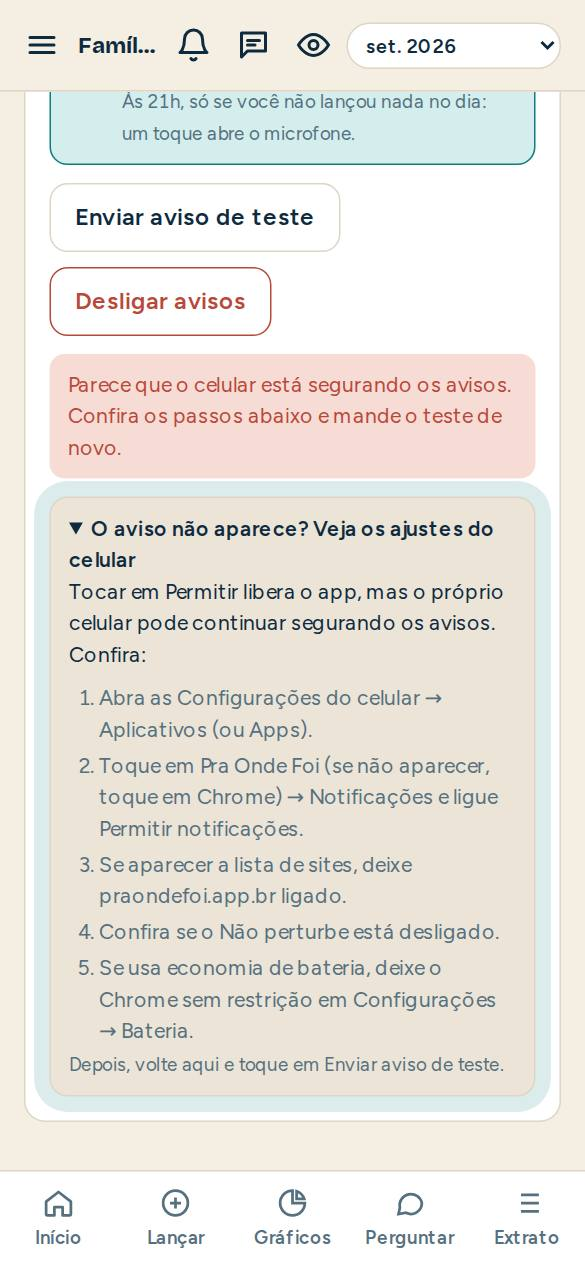
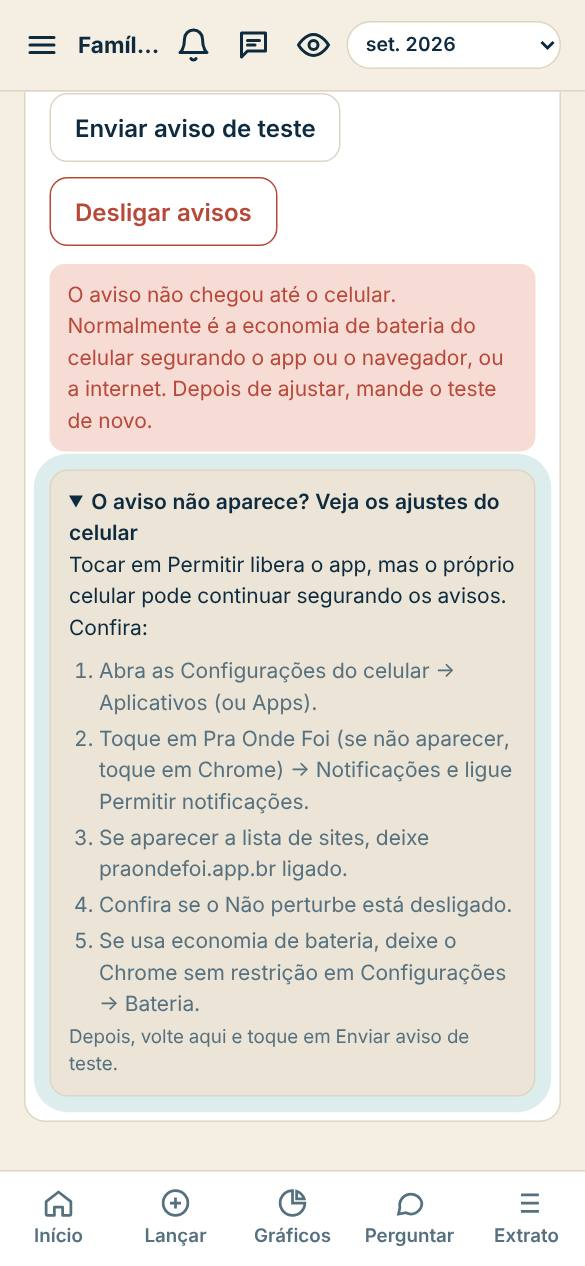
v69: the notification test knows whether the notice reached the phone and explains each case
Claude-Session: https://claude.ai/code/session_01HTxyDPPEQrF1SknoQ9axHM

diff --git a/public/js/admin/content.js b/public/js/admin/content.js
@@ -9,7 +9,7 @@ export const FEATURE_LABELS = {
   'perguntar.enviar': 'Pergunta ao assistente', 'fechar.mes': 'Fechou um mês', 'graficos.salvar': 'Salvou gráfico', privacidade: 'Modo privacidade',
   'opiniao.erro': 'Mandou erro', 'opiniao.ideia': 'Mandou ideia', 'opiniao.critica': 'Mandou crítica', 'duvida.ler': 'Leu uma dúvida', 'duvida.perguntar': 'Perguntou nas Dúvidas',
   'menu.familia': 'Menu: Família', 'menu.divisao': 'Menu: Quem paga o quê', 'menu.metas': 'Menu: Metas', 'menu.patrimonio': 'Menu: Patrimônio', 'menu.categorias': 'Menu: Categorias',
-  'menu.avisos': 'Menu: Notificações', 'avisos.convite_sim': 'Aceitou ligar as notificações (pop-up)', 'avisos.convite_nao': 'Disse "agora não" às notificações (pop-up)', 'avisos.ligou': 'Ligou as notificações neste celular', 'avisos.teste_chegou': 'O aviso de teste apareceu no celular', 'avisos.teste_nao_chegou': 'O aviso de teste NÃO apareceu (ajustes do celular)', 'teste.jornada': 'Dono do produto: rever os convites de abertura', 'menu.contexto': 'Menu: O que o assistente sabe', 'menu.ajuda': 'Menu: Ajuda', 'menu.duvidas': 'Menu: Dúvidas', 'menu.opiniao': 'Menu: Dar opinião',
+  'menu.avisos': 'Menu: Notificações', 'avisos.convite_sim': 'Aceitou ligar as notificações (pop-up)', 'avisos.convite_nao': 'Disse "agora não" às notificações (pop-up)', 'avisos.ligou': 'Ligou as notificações neste celular', 'avisos.teste_chegou': 'O aviso de teste apareceu no celular', 'avisos.teste_nao_chegou': 'Aviso de teste não chegou ao celular (bateria ou internet)', 'avisos.teste_nao_mostrou': 'Aviso de teste chegou, mas o celular não mostrou (ajustes)', 'avisos.teste_bloqueado': 'O celular bloqueou o aviso de teste', 'teste.jornada': 'Dono do produto: rever os convites de abertura', 'menu.contexto': 'Menu: O que o assistente sabe', 'menu.ajuda': 'Menu: Ajuda', 'menu.duvidas': 'Menu: Dúvidas', 'menu.opiniao': 'Menu: Dar opinião',
   'menu.applepay': 'Menu: Atalhos do iPhone', 'conta.zerar': 'Zerou os lançamentos da família', 'extrato.anotacao': 'Anotou um lançamento', 'exemplo.fatura': 'Do mês de exemplo, foi enviar a fatura', 'exemplo.falar': 'Do mês de exemplo, foi lançar falando', 'seguranca.biometria': 'Ligou a digital ou o rosto', 'seguranca.desbloqueio_bio': 'Desbloqueou com a digital ou o rosto', 'seguranca.desbloqueio_senha': 'Desbloqueou com a senha', 'seguranca.tempo': 'Mudou o tempo do bloqueio', 'seguranca.bloquear': 'Bloqueou o app na mão', 'applepay.codigo': 'Gerou código do atalho do iPhone', 'lancar.comprovante': 'Leu comprovante compartilhado', 'atalho.voz': 'Abriu pelo atalho Falar', 'atalho.nota': 'Abriu pelo atalho Nota', 'atalho.pdf': 'Abriu pelo atalho PDF', 'atalho.compartilhar': 'Compartilhou algo com o app', sininho: 'Abriu o sininho', 'menu.backup': 'Menu: Backup', 'menu.sobre': 'Menu: Sobre', 'menu.metricas': 'Menu: Métricas', 'menu.conta': 'Menu: Conta',
 };
 export const AREA_LABELS = { extrato: 'Extrato', conta: 'Conta', exemplo: 'Mês de exemplo', seguranca: 'Segurança', atalho: 'Atalhos', applepay: 'Atalhos do iPhone', aba: 'Abas', lancar: 'Lançar', perguntar: 'Perguntar', fechar: 'Fechar o mês', graficos: 'Gráficos', privacidade: 'Privacidade', opiniao: 'Opinião', duvida: 'Dúvidas', menu: 'Menu' };
@@ -31,7 +31,7 @@ export const SERVICES = [
   sv('subs', 'Assinaturas e aumentos', 'Acha cobranças repetidas e avisa quando o preço sobe', 'Início → Mais detalhes', 'no_ar', 'gratis', 'nao', '—', []),
   sv('split', 'Quem paga o quê', 'Quanto cada um pagou e o acerto do mês', 'Menu → Quem paga o quê', 'no_ar', 'gratis', 'nao', '—', ['menu.divisao']),
   sv('fam', 'Família e convites', 'Convite pelo WhatsApp; todos veem os mesmos números', 'Menu → Família', 'no_ar', 'gratis', 'nao', 'Supabase Auth', ['menu.familia']),
-  sv('push', 'Notificações', 'Um aviso por dia no máximo e resumo de domingo; avisos da família', 'Menu → Notificações', 'no_ar', 'gratis', 'nao', 'Web Push; Vercel Cron', ['menu.avisos', 'avisos.ligou', 'avisos.teste_chegou', 'avisos.teste_nao_chegou']),
+  sv('push', 'Notificações', 'Um aviso por dia no máximo e resumo de domingo; avisos da família', 'Menu → Notificações', 'no_ar', 'gratis', 'nao', 'Web Push; Vercel Cron', ['menu.avisos', 'avisos.ligou', 'avisos.teste_chegou', 'avisos.teste_nao_chegou', 'avisos.teste_nao_mostrou', 'avisos.teste_bloqueado']),
   sv('push_convite', 'Convite para ligar as notificações', 'Se as notificações estão desligadas ou bloqueadas no celular, o app avisa (1 vez por dia, até 7 vezes, ao abrir ou voltar do bloqueio) e leva para Notificações; o menu mostra "Desligadas"', 'Pop-up ao abrir o app; menu ☰', 'no_ar', 'gratis', 'nao', 'Estado do Web Push no próprio aparelho', ['avisos.convite_sim', 'avisos.convite_nao']),
   sv('priv', 'Modo privacidade', 'Esconde todos os valores', 'Olho no topo', 'no_ar', 'gratis', 'nao', '—', ['privacidade']),
   sv('pat', 'Patrimônio e dívidas', 'Investimentos, bens, financiamentos e projeção do sonho', 'Menu → Patrimônio', 'no_ar', 'gratis', 'nao', '—', ['menu.patrimonio']),

diff --git a/public/js/views/ajustes.js b/public/js/views/ajustes.js
@@ -15,7 +15,7 @@ import { showAllNews, welcomeAlpha } from '../messages.js';
 import { renderApplePay } from '../applepay.js';
 import { renderSecurity, signOutSafely } from '../lock.js';
 import { PHOTOS } from '../photos.js';
-import { platformOf, phoneSteps } from '../lib/pushask.js';
+import { platformOf, phoneSteps, testOutcome } from '../lib/pushask.js';
 import { PUSH_TYPES, pushStatus, currentPrefs, enablePush, savePrefs, disablePush, sendTest, isIOS } from '../push.js';
 
 const LISTS = {
@@ -478,17 +478,29 @@ async function renderPush(box) {
   };
   else {
     // Did it really show on the phone? If not, the phone's own settings are holding it: show the way.
+    // The service worker says when the test reaches this phone: then the question is only whether it showed.
+    let got = null;
+    const onMsg = ev => { if (ev.data?.type === 'push' && ev.data.tag === 'teste') got = ev.data.shown === false ? 'blocked' : 'arrived'; };
+    navigator.serviceWorker?.addEventListener('message', onMsg);
+    const ask = () => {
+      const c = $('#pCheck'); if (!c) return;
+      const o = testOutcome(got || 'missing');
+      if (got === 'blocked') { $('#pNo').click(); return; }
+      c.querySelector('p').innerHTML = `<strong>${o.ask}</strong>`; c.hidden = false;
+    };
     const test = async () => {
-      say('busy', 'Enviando...');
-      try { await sendTest(); say('ok', 'Aviso enviado. Ele chega em alguns segundos.'); setTimeout(() => { const c = $('#pCheck'); if (c) c.hidden = false; }, 4000); }
-      catch (e) { say('err', 'Não foi possível enviar o teste agora. Verifique a internet e tente de novo.'); }
+      got = null; say('busy', 'Enviando...');
+      try {
+        await sendTest(); say('ok', 'Aviso enviado. Ele chega em alguns segundos.');
+        const t0 = Date.now(); const wait = setInterval(() => { if (got || Date.now() - t0 > 15000) { clearInterval(wait); ask(); } }, 500);
+      } catch (e) { say('err', 'Não foi possível enviar o teste agora. Verifique a internet e tente de novo.'); }
     };
     $('#pTest').onclick = test;
     $('#pYes').onclick = () => { track('avisos.teste_chegou'); $('#pCheck').hidden = true; say('ok', 'Tudo certo! Os avisos vão chegar assim.'); };
     $('#pNo').onclick = () => {
-      track('avisos.teste_nao_chegou'); $('#pCheck').hidden = true;
+      track(got === 'arrived' ? 'avisos.teste_nao_mostrou' : got === 'blocked' ? 'avisos.teste_bloqueado' : 'avisos.teste_nao_chegou'); $('#pCheck').hidden = true;
       const d = $('#pPhone'); d.open = true; d.classList.add('pulse'); d.scrollIntoView({ behavior: 'smooth', block: 'start' });
-      say('err', 'Parece que o celular está segurando os avisos. Confira os passos abaixo e mande o teste de novo.');
+      say('err', testOutcome(got || 'missing').no);
     };
     if (S.pushAskCheck) { S.pushAskCheck = false; setTimeout(test, 400); }
     $('#pOff').onclick = async e => {

diff --git a/public/sw.js b/public/sw.js
@@ -1,6 +1,6 @@
 // Service worker: caches the app shell so it opens fast and installs as an app.
 // Data and /api calls always go to the network.
-const VERSION = 'v68';
+const VERSION = 'v69';
 const SHELL = ['/', '/index.html', '/css/app.css', '/js/main.js', '/js/db.js', '/js/ai.js', '/js/ui.js', '/js/state.js', '/js/speech.js', '/js/tour.js', '/js/steps.js', '/js/onboarding.js', '/js/art.js', '/js/install.js', '/js/push.js', '/js/metrics.js', '/js/privacy.js', '/js/lib/recurring.js', '/js/lib/settle.js', '/js/photos.js', '/js/menu.js', '/js/coach.js', '/js/views/graficos.js', '/js/views/fechar.js', '/js/lib/closing.js', '/js/lib/charts.js', '/js/lib/receipt.js', '/js/lib/insights.js', '/js/lib/budget.js', '/js/lib/pricing.js', '/js/lib/faq.js', '/js/feedback.js', '/js/usage.js', '/js/lib/navlog.js', '/js/applepay.js', '/js/lib/quick.js', '/js/lib/feed.js', '/js/messages.js', '/js/lib/news.js',
   '/js/lib/format.js', '/js/lib/calc.js', '/js/lib/categorize.js', '/js/lib/parse.js', '/js/lib/validate.js',
   '/js/views/resumo.js', '/js/views/lancar.js', '/js/views/perguntar.js', '/js/views/extrato.js', '/js/views/ajustes.js',
@@ -31,7 +31,13 @@ self.addEventListener('fetch', e => {
 // Notifications sent by the daily run (api/push-cron.js) or the test button.
 self.addEventListener('push', e => {
   let d = {}; try { d = e.data ? e.data.json() : {}; } catch (x) { d = { body: e.data && e.data.text() }; }
-  e.waitUntil(self.registration.showNotification(d.title || 'Pra Onde Foi', { body: d.body || '', icon: '/icons/icon-192.png', badge: '/icons/badge-96.png', tag: d.tag || 'aviso', data: { url: d.url || '/' }, lang: 'pt-BR' }));
+  // Tells the open app that the notice reached this phone (the test uses it to tell "did not arrive" from
+  // "arrived but the phone did not show it").
+  e.waitUntil((async () => {
+    let shown = true;
+    try { await self.registration.showNotification(d.title || 'Pra Onde Foi', { body: d.body || '', icon: '/icons/icon-192.png', badge: '/icons/badge-96.png', tag: d.tag || 'aviso', data: { url: d.url || '/' }, lang: 'pt-BR' }); } catch (x) { shown = false; }
+    (await self.clients.matchAll({ type: 'window', includeUncontrolled: true })).forEach(c => c.postMessage({ type: 'push', tag: d.tag || 'aviso', shown }));
+  })());
 });
 self.addEventListener('notificationclick', e => {
   e.notification.close();

diff --git a/public/js/lib/releases.js b/public/js/lib/releases.js
@@ -145,4 +145,7 @@ export const RELEASES = [
   { id: 'r68', version: 'v68', at: '2026-11-03T17:05:00Z', backlog: ['bug_push_sem_permissao_no_banco'], semNovidade: 'Correção no servidor: as notificações no celular passam a sair (o banco não deixava o servidor ler a lista de aparelhos). Exige rodar o SQL da v68 no Supabase.', addBacklog: [
     { id: 'bug_push_sem_permissao_no_banco', tipo: 'bug', title: 'Nenhum push saía: o servidor não tinha permissão no banco', status: 'feito', origin: 'Erro de Luiz', effort: 'P', problem: 'Push de teste da Central dava "erro 500: db"; nenhuma pessoa recebia notificações (novidades, recados, avisos do dia) e o atalho do iPhone provavelmente não salvava', cost: false, notes: 'Causa: o schema dava permissão ao servidor (service_role) só nas tabelas da Central; aparelhos, membros, famílias, categorias, regras e lançamentos ficaram sem. As outras rotinas escondiam o erro (devolviam lista vazia), então ninguém via. Correção: grants no schema + teste no banco local + erro da Central diz a tabela e o motivo. Regra nova no CLAUDE.md. Lição para o estudo dos bugs: erro engolido em silêncio esconde falha geral; o teste do banco precisa testar o papel do servidor.', from: [], where: 'Notificações no celular' },
   ] },
+  { id: 'r69', version: 'v69', at: '2026-11-03T18:20:00Z', backlog: [], semNovidade: 'O teste de notificação agora sabe se o aviso chegou ao celular e explica o caso certo (ajustes do celular, bateria ou internet); quem testa vê na hora.', updateBacklog: [
+    { id: 'conferir_se_o_aviso_chegou', set: { notes: 'Ao ligar, o app manda um aviso de teste e o próprio app percebe se ele chegou ao celular. Pergunta se apareceu na tela; "Não apareceu" explica o caso certo (chegou mas o celular não mostrou = ajustes de notificação; não chegou = bateria ou internet; bloqueado) e abre o passo a passo do celular da pessoa (iPhone, Samsung, outros Android). A Central conta cada caso.' } },
+  ] },
 ];

diff --git a/public/js/lib/pushask.js b/public/js/lib/pushask.js
@@ -54,3 +54,12 @@ export function phoneSteps(platform) {
   if (platform === 'android') return [...base, 'Se usa economia de bateria, deixe o Chrome sem restrição em Configurações → Bateria.'];
   return ['Nas configurações do sistema, permita notificações para o navegador e para praondefoi.app.br.', 'Confira se o modo Não perturbe está desligado.'];
 }
+
+// The test notice, from the app's point of view: 'arrived' (the phone got it; if it did not show, the phone's
+// notification settings hold it), 'blocked' (the phone refused to show it) or 'missing' (did not reach the
+// phone in time: battery saving or background limits on Chrome, or no internet).
+export function testOutcome(kind) {
+  if (kind === 'arrived') return { ask: 'O aviso chegou neste celular. Ele apareceu na tela?', no: 'O aviso chegou, mas o celular não mostrou: as notificações estão desligadas nos ajustes do celular. Siga os passos abaixo e mande o teste de novo.' };
+  if (kind === 'blocked') return { ask: '', no: 'O celular recusou mostrar o aviso: as notificações deste app estão bloqueadas. Siga os passos abaixo e mande o teste de novo.' };
+  return { ask: 'O aviso ainda não chegou neste celular. Ele apareceu na tela?', no: 'O aviso não chegou até o celular. Normalmente é a economia de bateria do celular segurando o app ou o navegador, ou a internet. Depois de ajustar, mande o teste de novo.' };
+}

diff --git a/public/js/usage.js b/public/js/usage.js
@@ -5,7 +5,7 @@ import * as db from './db.js';
 import { S } from './state.js';
 import { tapCell, tapLabel, cleanError } from './lib/navlog.js';
 
-export const APP_VERSION = 'v68';
+export const APP_VERSION = 'v69';
 const OK = /^[a-z_]{2,20}(\.[a-z_]{2,20})?$/;
 export const device = () => { const u = navigator.userAgent; return (/iphone|ipad/i.test(u) ? 'iPhone' : /android/i.test(u) ? 'Android' : /mac/i.test(u) ? 'Mac' : /windows/i.test(u) ? 'Windows' : 'Outro') + (window.matchMedia?.('(display-mode: standalone)').matches || navigator.standalone ? ' · app instalado' : ' · navegador'); };
 export const screenOf = () => S.tab === 'ajustes' ? 'menu.' + (S.sec || 'familia') : S.tab === 'resumo' ? 'inicio' : (S.tab || '');
